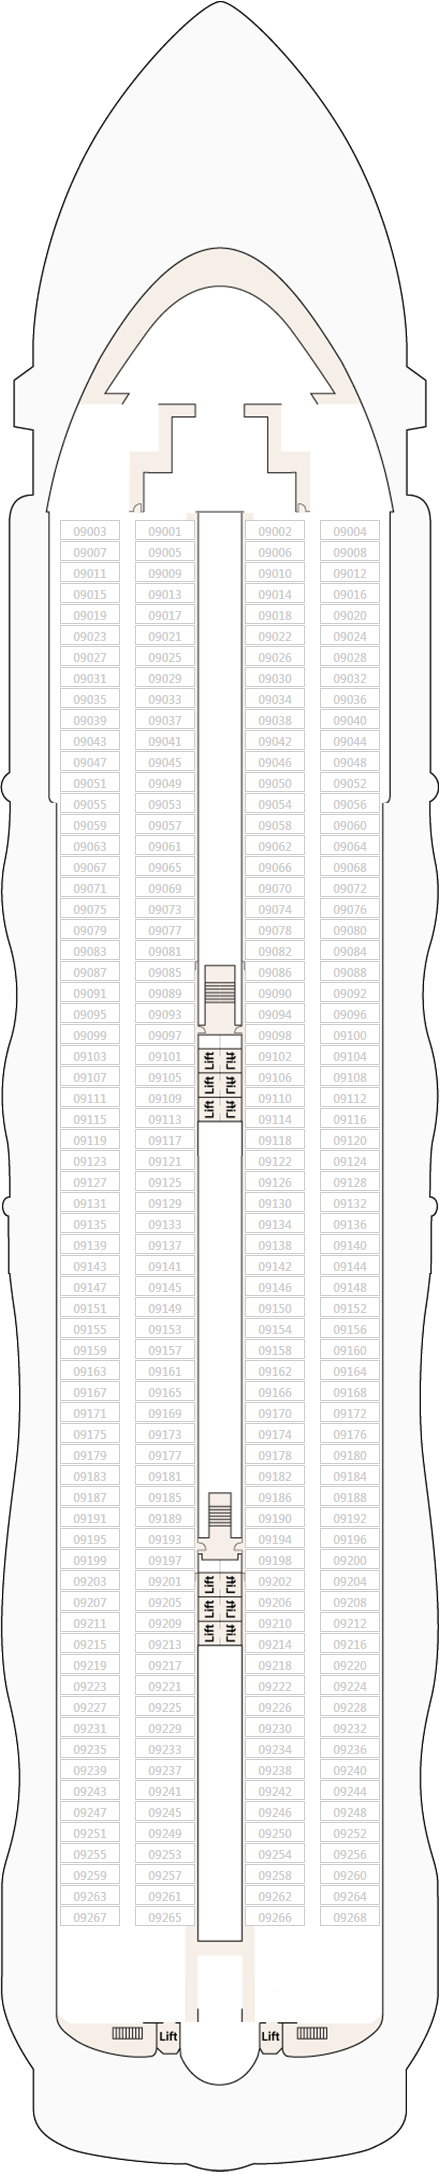
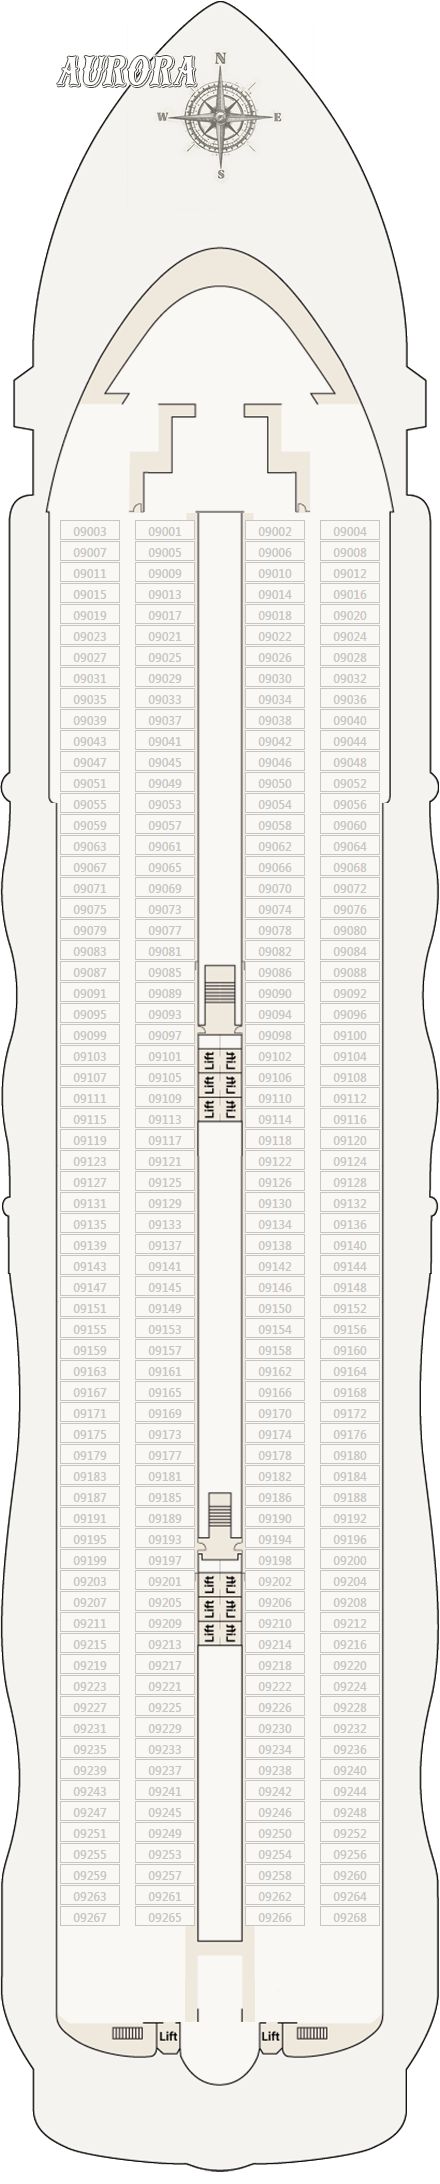
Optimaze CruiseService. Improve Deck.cshtml

Changed region(s): [[0.1477, 0.0, 0.5909, 0.0934]]

diff --git a/CruiseApp/CruiseApp.Services/Services/CruiseService.cs b/CruiseApp/CruiseApp.Services/Services/CruiseService.cs
@@ -68,31 +68,57 @@ namespace CruiseApp.Services.Services
         {
             var cruise = await db.Cruises
                 .AsNoTracking()
-                .Include(c => c.Route)
-                    .ThenInclude(r => r.Ship)
-                        .ThenInclude(s => s.Decks)
-                            .ThenInclude(d => d.Cabins)
-                .Include(c => c.Route)
-                    .ThenInclude(r => r.Days)
-                        .ThenInclude(d => d.Point)
-                .Include(c => c.CabinPrices)
-                .FirstOrDefaultAsync(c => c.Id == cruiseId);
+                .Where(c => c.Id == cruiseId)
+                .Select(c => new
+                {
+                    c.Id,
+                    ShipName = c.Route.Ship.Name,
 
-            if (cruise == null)
-                return null;
+                    StartPoint = c.Route.Days
+                        .Where(d => d.Date == c.FirstDay)
+                        .Select(d => d.Point.Name)
+                        .FirstOrDefault(),
+
+                    c.FirstDay,
+                    c.LastDay,
+
+                    Nights = c.LastDay.DayNumber - c.FirstDay.DayNumber,
+
+                    CabinPrices = c.CabinPrices
+                        .Select(p => new
+                        {
+                            p.CabinType,
+                            p.Price
+                        })
+                        .ToList(),
+
+                    ShipId = c.Route.Ship.Id
+                })
+                .FirstOrDefaultAsync();
+
+            var decksByType = await db.Decks
+                .AsNoTracking()
+                .Where(d => d.ShipId == cruise.ShipId)
+                .Select(d => new
+                {
+                    d.Id,
+                    d.Number,
+
+                    CabinTypes = d.Cabins
+                        .Select(c => c.CabinType)
+                        .Distinct()
+                        .ToList()
+                })
+                .ToListAsync();
 
             var result = new CabinsServiceModel
             {
                 CruiseId = cruise.Id,
-                ShipName = cruise.Route.Ship.Name,
-
-                StartPoint = cruise.Route.Days
-                    .FirstOrDefault(d => d.Date == cruise.FirstDay)?.Point.Name,
-
+                ShipName = cruise.ShipName,
+                StartPoint = cruise.StartPoint,
                 FirstDay = cruise.FirstDay,
                 LastDay = cruise.LastDay,
-
-                Nights = cruise.LastDay.DayNumber - cruise.FirstDay.DayNumber,
+                Nights = cruise.Nights,
 
                 Cabins = cruise.CabinPrices
                     .OrderBy(p => p.CabinType)
@@ -101,8 +127,8 @@ namespace CruiseApp.Services.Services
                         CabinType = p.CabinType,
                         Price = p.Price,
 
-                        Decks = cruise.Route.Ship.Decks
-                            .Where(d => d.Cabins.Any(c => c.CabinType == p.CabinType))
+                        Decks = decksByType
+                            .Where(d => d.CabinTypes.Contains(p.CabinType))
                             .OrderBy(d => d.Number)
                             .Select(d => new DeckButtonServiceModel
                             {
@@ -112,10 +138,109 @@ namespace CruiseApp.Services.Services
                             .ToList()
                     })
                     .ToList()
-            };
+                        };
 
             return result;
         }
+
+
+        //public async Task<CabinsServiceModel?> GetCabinsAsync(int cruiseId)
+        //{
+        //    var result = await db.Cruises
+        //        .AsNoTracking()
+        //        .Where(c => c.Id == cruiseId)
+        //        .Select(c => new CabinsServiceModel
+        //        {
+        //            CruiseId = c.Id,
+        //            ShipName = c.Route.Ship.Name,
+
+        //            StartPoint = c.Route.Days
+        //                .Where(d => d.Date == c.FirstDay)
+        //                .Select(d => d.Point.Name)
+        //                .FirstOrDefault(),
+
+        //            FirstDay = c.FirstDay,
+        //            LastDay = c.LastDay,
+
+        //            Nights = c.LastDay.DayNumber - c.FirstDay.DayNumber,
+
+        //            Cabins = c.CabinPrices
+        //                .OrderBy(p => p.CabinType)
+        //                .Select(p => new CabinCardServiceModel
+        //                {
+        //                    CabinType = p.CabinType,
+        //                    Price = p.Price,
+
+        //                    Decks = c.Route.Ship.Decks
+        //                        .Where(d => d.Cabins
+        //                            .Any(cb => cb.CabinType == p.CabinType))
+        //                        .OrderBy(d => d.Number)
+        //                        .Select(d => new DeckButtonServiceModel
+        //                        {
+        //                            Id = d.Id,
+        //                            Name = "Deck " + d.Number
+        //                        })
+        //                        .ToList()
+        //                })
+        //                .ToList()
+        //        })
+        //        .FirstOrDefaultAsync();
+
+        //    return result;
+        //}
+
+        //public async Task<CabinsServiceModel?> GetCabinsAsync(int cruiseId)
+        //{
+        //    var cruise = await db.Cruises
+        //        .AsNoTracking()
+        //        .Include(c => c.Route)
+        //            .ThenInclude(r => r.Ship)
+        //                .ThenInclude(s => s.Decks)
+        //                    .ThenInclude(d => d.Cabins)
+        //        .Include(c => c.Route)
+        //            .ThenInclude(r => r.Days)
+        //                .ThenInclude(d => d.Point)
+        //        .Include(c => c.CabinPrices)
+        //        .FirstOrDefaultAsync(c => c.Id == cruiseId);
+
+        //    if (cruise == null)
+        //        return null;
+
+        //    var result = new CabinsServiceModel
+        //    {
+        //        CruiseId = cruise.Id,
+        //        ShipName = cruise.Route.Ship.Name,
+
+        //        StartPoint = cruise.Route.Days
+        //            .FirstOrDefault(d => d.Date == cruise.FirstDay)?.Point.Name,
+
+        //        FirstDay = cruise.FirstDay,
+        //        LastDay = cruise.LastDay,
+
+        //        Nights = cruise.LastDay.DayNumber - cruise.FirstDay.DayNumber,
+
+        //        Cabins = cruise.CabinPrices
+        //            .OrderBy(p => p.CabinType)
+        //            .Select(p => new CabinCardServiceModel
+        //            {
+        //                CabinType = p.CabinType,
+        //                Price = p.Price,
+
+        //                Decks = cruise.Route.Ship.Decks
+        //                    .Where(d => d.Cabins.Any(c => c.CabinType == p.CabinType))
+        //                    .OrderBy(d => d.Number)
+        //                    .Select(d => new DeckButtonServiceModel
+        //                    {
+        //                        Id = d.Id,
+        //                        Name = $"Deck {d.Number}"
+        //                    })
+        //                    .ToList()
+        //            })
+        //            .ToList()
+        //    };
+
+        //    return result;
+        //}
 
         public async Task<DeckCabinsServiceModel> GetDeckCabinsAsync(
     int cruiseId, int deckId, CabinType cabinType)

diff --git a/CruiseApp/CruiseApp.Web/Controllers/CruiseController.cs b/CruiseApp/CruiseApp.Web/Controllers/CruiseController.cs
@@ -207,6 +207,7 @@ namespace CruiseApp.Web.Controllers
                 ShipName = serviceModel.ShipName,
                 DeckId = serviceModel.DeckId,
                 DeckName = serviceModel.DeckName,
+                DeckNumber = int.Parse(serviceModel.DeckName),
                 DeckImage = serviceModel.DeckImage,
                 CabinType = serviceModel.CabinType,
                 Cabins = serviceModel.Cabins

diff --git a/CruiseApp/CruiseApp.Web/ViewModels/Cruise/DeckCabinsViewModel.cs b/CruiseApp/CruiseApp.Web/ViewModels/Cruise/DeckCabinsViewModel.cs
@@ -7,6 +7,7 @@ namespace CruiseApp.Web.ViewModels.Cruise
     {
         public string ShipName { get; set; } = string.Empty;
         public int DeckId { get; set; }
+        public int DeckNumber { get; set; }
         public string DeckName { get; set; } = string.Empty;
         public string DeckImage {  get; set; } = string.Empty;
         public CabinType CabinType { get; set; }
